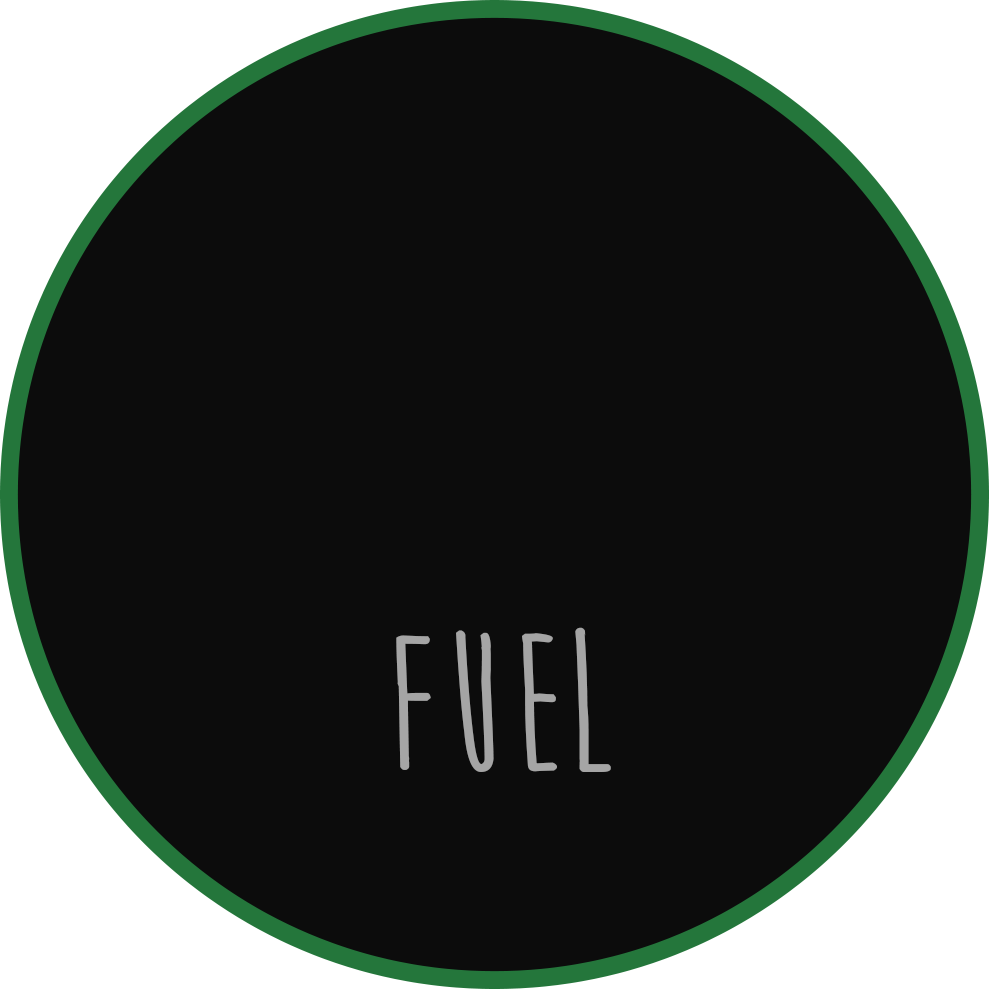
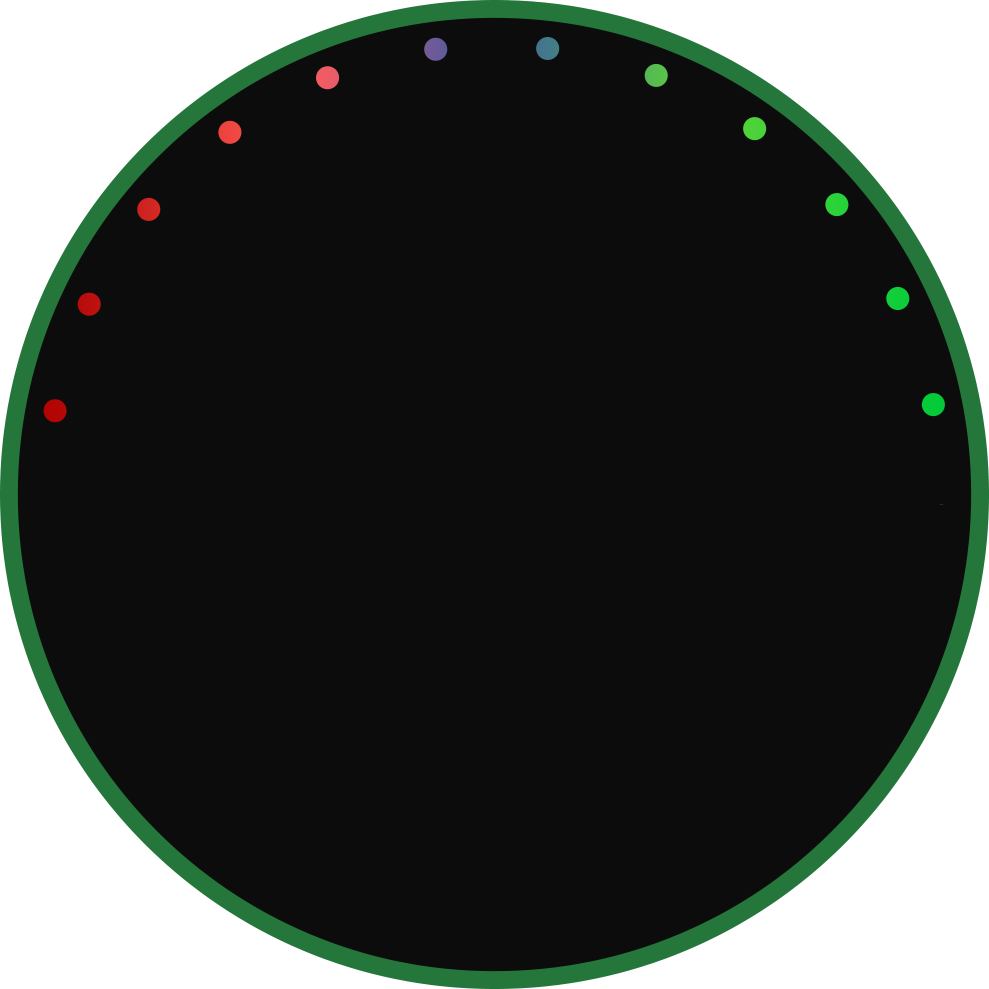
The fuel gauge for the UI  seems to be working now

diff --git a/Assets/Scripts/GUI/FuelGauge/FuelText.cs b/Assets/Scripts/GUI/FuelGauge/FuelText.cs
@@ -1,15 +1,26 @@
 using UnityEngine;
 using System.Collections;
+using UnityEngine.UI;
 
 public class FuelText : MonoBehaviour {
 
-	// Use this for initialization
-	void Start () {
-	
-	}
-	
-	// Update is called once per frame
-	void Update () {
-	
-	}
+    private Text txt;
+    private DropPod pod;
+    // "Hack" to make sure that altitude is 0 when on the ground, should be easy to make it work relative to the pod
+    private float offset = 0.5f;
+
+    // Use this for initialization
+    void Start()
+    {
+        txt = GetComponent<Text>();
+        GameObject go = GameObject.Find("GUIManager");
+        GUIHandler guih = go.GetComponent<GUIHandler>();
+        pod = guih.pod;
+    }
+
+    // Update is called once per frame
+    void Update()
+    {
+        txt.text = Mathf.Round(pod.Fuel()) + "%";
+    }   
 }

diff --git a/Assets/Scripts/GUI/FuelGauge/Pointer.cs b/Assets/Scripts/GUI/FuelGauge/Pointer.cs
@@ -4,7 +4,6 @@ public class Pointer : MonoBehaviour {
     
     private RectTransform img;
     private DropPod pod;
-    private int speed = 30;
 
 	// Use this for initialization
 	void Start () {
